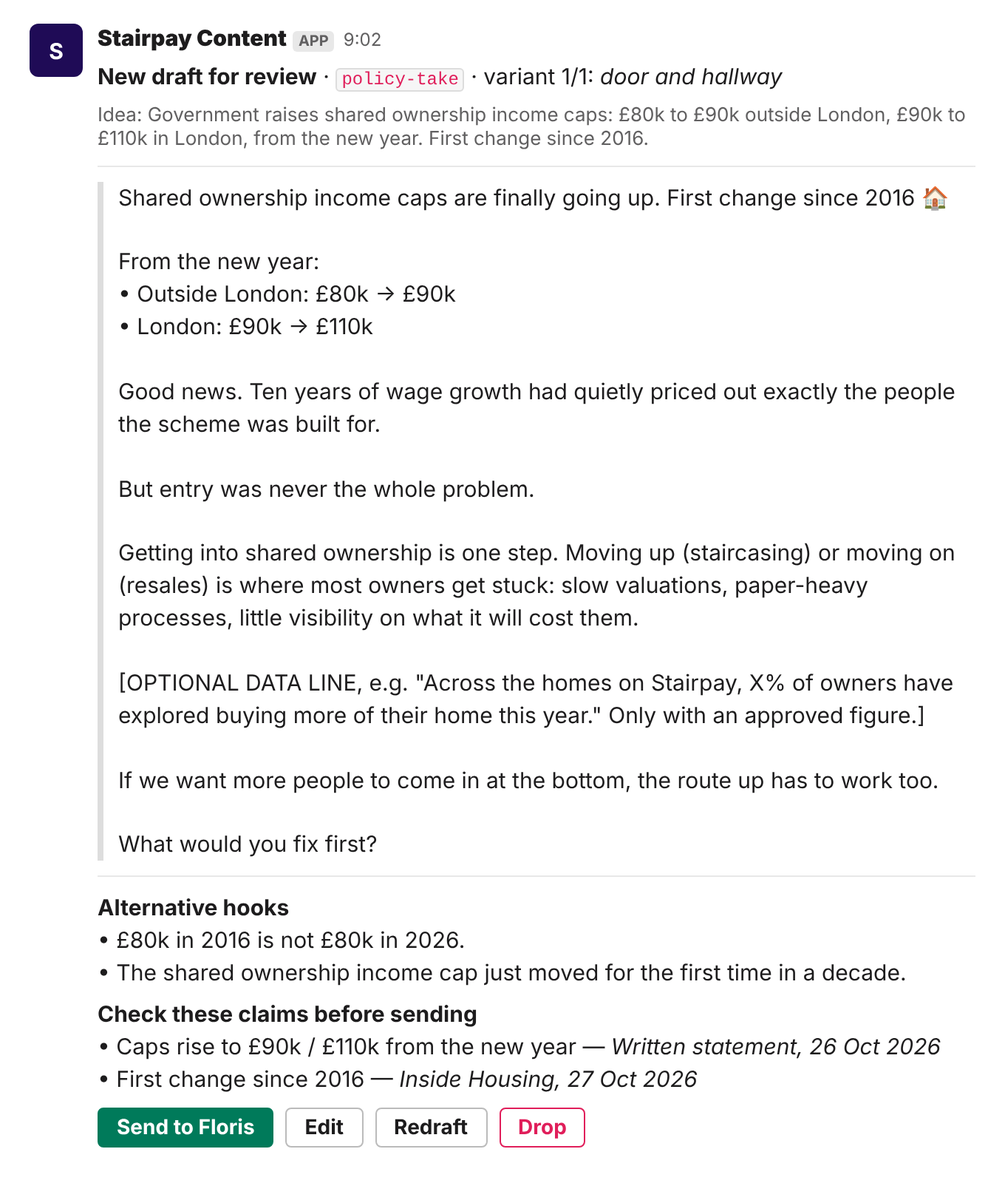
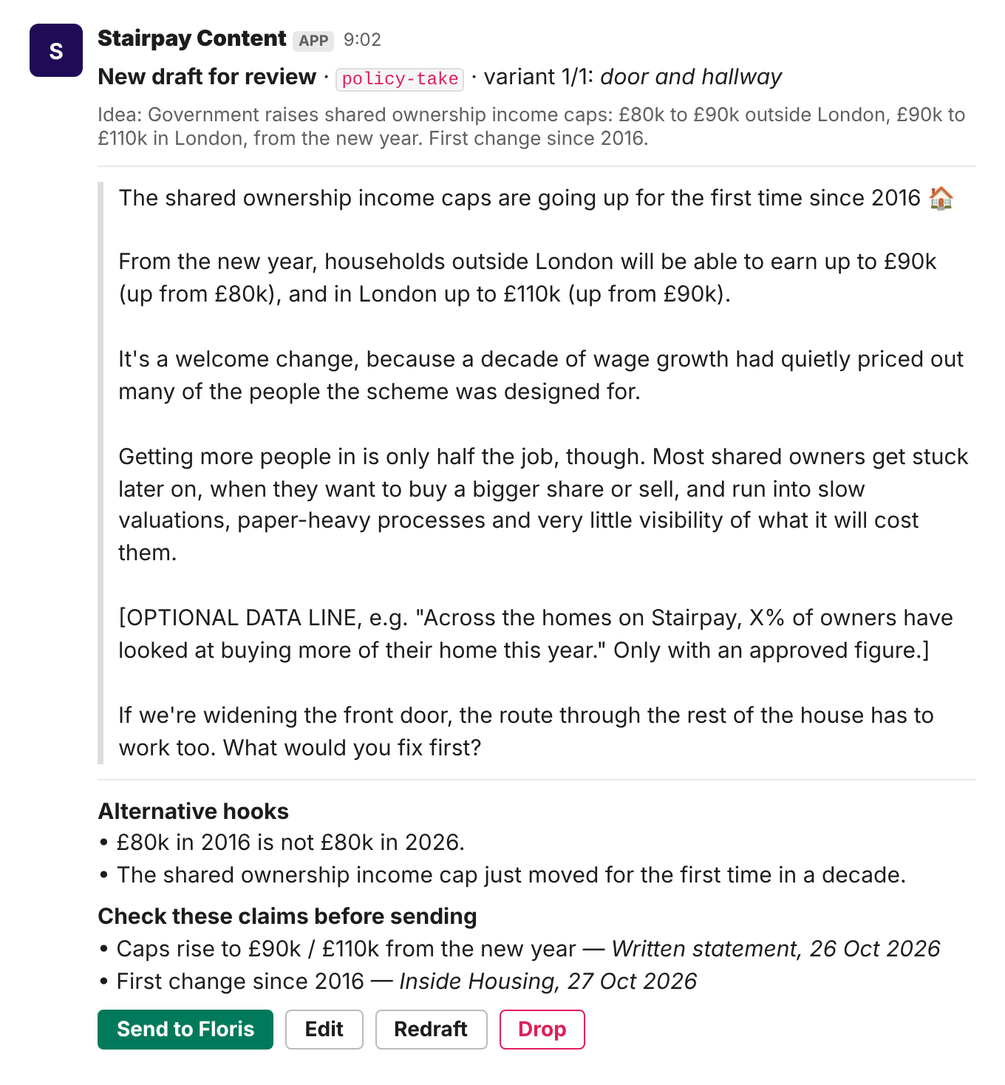
Income-caps draft rewritten to the natural-phrasing standard
Claude-Session: https://claude.ai/code/session_016KAkVYgtzY3TWTPk2NvPPF

diff --git a/mockups/slack/README.md b/mockups/slack/README.md
@@ -3,13 +3,11 @@
 Exact Block Kit payloads the bot sends (generated by `scripts/make_mockups.py` from the bot's own code).
 Open a link while signed in to Slack to see it rendered in Slack's Block Kit Builder (buttons are inert there).
 
-- [news alert](https://app.slack.com/block-kit-builder/#%7B%22blocks%22%3A%5B%7B%22type%22%3A%22section%22%2C%22text%22%3A%7B%22type%22%3A%22mrkdwn%22%2C%22text%22%3A%22%5Cu26a1%20%2ATimely%20post%20idea%2A%20%5Cu00b7%20score%209/10%5Cn%2AShared%20ownership%20income%20caps%20raised%2A%5Cn_Announced%2026%20Oct%3B%20sector%20reacting%20this%20week_%22%7D%7D%2C%7B%22type%22%3A%22context%22%2C%22elements%22%3A%5B%7B%22type%22%3A%22mrkdwn%22%2C%22text%22%3A%22%3Chttps%3A//www.insidehousing.co.uk/news/government-announces-increase-to-shared-ownership-income-caps-99295%7CSource%3E%20%5Cu00b7%20policy-take%20%5Cu00b7%20timely%203%2C%20data%202%2C%20fit%202%2C%20fresh%202%22%7D%5D%7D%2C%7B%22type%22%3A%22actions%22%2C%22elements%22%3A%5B%7B%22type%22%3A%22button%22%2C%22text%22%3A%7B%22type%22%3A%22plain_text%22%2C%22text%22%3A%22Draft%20now%20%28fast%20lane%29%22%2C%22emoji%22%3Atrue%7D%2C%22action_id%22%3A%22news_draft%22%2C%22value%22%3A%22idea_be49473e06%22%2C%22style%22%3A%22primary%22%7D%2C%7B%22type%22%3A%22button%22%2C%22text%22%3A%7B%22type%22%3A%22plain_text%22%2C%22text%22%3A%22Keep%20for%20Wednesday%22%2C%22emoji%22%3Atrue%7D%2C%22action_id%22%3A%22news_keep%22%2C%22value%22%3A%22idea_be49473e06%22%7D%2C%7B%22type%22%3A%22button%22%2C%22text%22%3A%7B%22type%22%3A%22plain_text%22%2C%22text%22%3A%22Drop%22%2C%22emoji%22%3Atrue%7D%2C%22action_id%22%3A%22news_drop%22%2C%22value%22%3A%22idea_be49473e06%22%7D%5D%7D%5D%7D) · `1_news_alert.json`
-- [board digest wednesday](https://app.slack.com/block-kit-builder/#%7B%22blocks%22%3A%5B%7B%22type%22%3A%22section%22%2C%22text%22%3A%7B%22type%22%3A%22mrkdwn%22%2C%22text%22%3A%22%2AIdeas%20board%20for%20the%20Wednesday%20review%2A%20%5Cu00b7%20posts%20for%202026-W45%5CnTick%20the%20ones%20to%20post%20next%20week%20%28aim%20for%204-5%29%2C%20then%20confirm.%22%7D%7D%2C%7B%22type%22%3A%22context%22%2C%22elements%22%3A%5B%7B%22type%22%3A%22mrkdwn%22%2C%22text%22%3A%22New%3A%204%20%5Cu00b7%20Picked%3A%201%20%5Cu00b7%20Drafting%3A%201%20%5Cu00b7%20Published%3A%201%22%7D%5D%7D%2C%7B%22type%22%3A%22divider%22%7D%2C%7B%22type%22%3A%22section%22%2C%22text%22%3A%7B%22type%22%3A%22mrkdwn%22%2C%22text%22%3A%22%2ALast%20week%27s%20results%2A%20%28best%20first%29%5Cn%5Cu2022%20%3Chttps%3A//www.linkedin.com/in/floris-ten-nijenhuis/recent-activity/%7CAny%20board%20game%20fans%20out%20here%3F%20%28EXAMPLE%20of%20a%20published%20row%29%3E%20%5Cu00b7%20%60story-bts%60%20%5Cud83c%5Cudfc6%5Cn%20%20%2030%20reactions%20%5Cu00b7%201%20comments%20%5Cu00b7%200%20reposts%22%7D%7D%2C%7B%22type%22%3A%22divider%22%7D%2C%7B%22type%22%3A%22section%22%2C%22block_id%22%3A%22pick_idea_b534c7b137%22%2C%22text%22%3A%7B%22type%22%3A%22mrkdwn%22%2C%22text%22%3A%22%2AEXAMPLE%3A%20How%20long%20staircasing%20really%20takes%2A%20%5Cu00b7%208/10%5Cn_Pairs%20with%20the%20income%20caps%20news_%5Cndata-post%20%5Cu00b7%20Stairpay%20data%22%7D%2C%22accessory%22%3A%7B%22type%22%3A%22checkboxes%22%2C%22action_id%22%3A%22board_tick%22%2C%22options%22%3A%5B%7B%22text%22%3A%7B%22type%22%3A%22mrkdwn%22%2C%22text%22%3A%22Pick%22%7D%2C%22value%22%3A%22idea_b534c7b137%22%7D%5D%7D%7D%2C%7B%22type%22%3A%22section%22%2C%22block_id%22%3A%22pick_idea_98a5e82ba2%22%2C%22text%22%3A%7B%22type%22%3A%22mrkdwn%22%2C%22text%22%3A%22%2AEXAMPLE%3A%20What%20providers%20get%20wrong%20about%20resales%2A%20%5Cu00b7%207/10%5Cn_Strong%20line%20from%20the%20weekly%20chat_%5Cnpolicy-take%20%5Cu00b7%20Floris%20meeting%22%7D%2C%22accessory%22%3A%7B%22type%22%3A%22checkboxes%22%2C%22action_id%22%3A%22board_tick%22%2C%22options%22%3A%5B%7B%22text%22%3A%7B%22type%22%3A%22mrkdwn%22%2C%22text%22%3A%22Pick%22%7D%2C%22value%22%3A%22idea_98a5e82ba2%22%7D%5D%7D%7D%2C%7B%22type%22%3A%22section%22%2C%22block_id%22%3A%22pick_idea_7a52a7d0ec%22%2C%22text%22%3A%7B%22type%22%3A%22mrkdwn%22%2C%22text%22%3A%22%2AShared%20Ownership%20Code%20adoption%20keeps%20growing%2A%20%5Cu00b7%206/10%5Cn_Another%20provider%20signed%20up%20last%20week_%5Cnpolicy-take%20%5Cu00b7%20News%20scan%20%5Cu00b7%20%3Chttps%3A//www.insidehousing.co.uk/news/specialist-older-peoples-housing-association-adopts-shared-ownership-code-99224%7Csource%3E%22%7D%2C%22accessory%22%3A%7B%22type%22%3A%22checkboxes%22%2C%22action_id%22%3A%22board_tick%22%2C%22options%22%3A%5B%7B%22text%22%3A%7B%22type%22%3A%22mrkdwn%22%2C%22text%22%3A%22Pick%22%7D%2C%22value%22%3A%22idea_7a52a7d0ec%22%7D%5D%7D%7D%2C%7B%22type%22%3A%22section%22%2C%22block_id%22%3A%22pick_idea_77e3c57b79%22%2C%22text%22%3A%7B%22type%22%3A%22mrkdwn%22%2C%22text%22%3A%22%2AUS%20investor%20brings%20%5Cu00a3100m%20to%20UK%20affordable%20housing%2A%20%5Cu00b7%205/10%5Cn_New%20capital%20entering%20the%20sector_%5Cnpolicy-take%20%5Cu00b7%20News%20scan%20%5Cu00b7%20%3Chttps%3A//news.google.com/rss/search%3Fq%3D%2522affordable%2Bhousing%2Binvestor%2522%2B%25C2%25A3100m%2BUK%7Csource%3E%22%7D%2C%22accessory%22%3A%7B%22type%22%3A%22checkboxes%22%2C%22action_id%22%3A%22board_tick%22%2C%22options%22%3A%5B%7B%22text%22%3A%7B%22type%22%3A%22mrkdwn%22%2C%22text%22%3A%22Pick%22%7D%2C%22value%22%3A%22idea_77e3c57b79%22%7D%5D%7D%7D%2C%7B%22type%22%3A%22divider%22%7D%2C%7B%22type%22%3A%22actions%22%2C%22elements%22%3A%5B%7B%22type%22%3A%22button%22%2C%22text%22%3A%7B%22type%22%3A%22plain_text%22%2C%22text%22%3A%22Confirm%20picks%22%2C%22emoji%22%3Atrue%7D%2C%22action_id%22%3A%22board_confirm%22%2C%22value%22%3A%222026-W45%22%2C%22style%22%3A%22primary%22%7D%5D%7D%5D%7D) · `2_board_digest_wednesday.json`
+- [news alert](https://app.slack.com/block-kit-builder/#%7B%22blocks%22%3A%5B%7B%22type%22%3A%22section%22%2C%22text%22%3A%7B%22type%22%3A%22mrkdwn%22%2C%22text%22%3A%22%5Cu26a1%20%2ATimely%20post%20idea%2A%20%5Cu00b7%20score%209/10%5Cn%2AShared%20ownership%20income%20caps%20raised%2A%5Cn_Announced%2026%20Oct%3B%20sector%20reacting%20this%20week_%22%7D%7D%2C%7B%22type%22%3A%22context%22%2C%22elements%22%3A%5B%7B%22type%22%3A%22mrkdwn%22%2C%22text%22%3A%22%3Chttps%3A//www.insidehousing.co.uk/news/government-announces-increase-to-shared-ownership-income-caps-99295%7CSource%3E%20%5Cu00b7%20policy-take%20%5Cu00b7%20timely%203%2C%20data%202%2C%20fit%202%2C%20fresh%202%22%7D%5D%7D%2C%7B%22type%22%3A%22actions%22%2C%22elements%22%3A%5B%7B%22type%22%3A%22button%22%2C%22text%22%3A%7B%22type%22%3A%22plain_text%22%2C%22text%22%3A%22Draft%20now%20%28fast%20lane%29%22%2C%22emoji%22%3Atrue%7D%2C%22action_id%22%3A%22news_draft%22%2C%22value%22%3A%22idea_8377c82d59%22%2C%22style%22%3A%22primary%22%7D%2C%7B%22type%22%3A%22button%22%2C%22text%22%3A%7B%22type%22%3A%22plain_text%22%2C%22text%22%3A%22Keep%20for%20Wednesday%22%2C%22emoji%22%3Atrue%7D%2C%22action_id%22%3A%22news_keep%22%2C%22value%22%3A%22idea_8377c82d59%22%7D%2C%7B%22type%22%3A%22button%22%2C%22text%22%3A%7B%22type%22%3A%22plain_text%22%2C%22text%22%3A%22Drop%22%2C%22emoji%22%3Atrue%7D%2C%22action_id%22%3A%22news_drop%22%2C%22value%22%3A%22idea_8377c82d59%22%7D%5D%7D%5D%7D) · `1_news_alert.json`
+- [board digest wednesday](https://app.slack.com/block-kit-builder/#%7B%22blocks%22%3A%5B%7B%22type%22%3A%22section%22%2C%22text%22%3A%7B%22type%22%3A%22mrkdwn%22%2C%22text%22%3A%22%2AIdeas%20board%20for%20the%20Wednesday%20review%2A%20%5Cu00b7%20posts%20for%202026-W45%5CnTick%20the%20ones%20to%20post%20next%20week%20%28aim%20for%204-5%29%2C%20then%20confirm.%22%7D%7D%2C%7B%22type%22%3A%22context%22%2C%22elements%22%3A%5B%7B%22type%22%3A%22mrkdwn%22%2C%22text%22%3A%22New%3A%204%20%5Cu00b7%20Picked%3A%201%20%5Cu00b7%20Drafting%3A%201%20%5Cu00b7%20Published%3A%201%22%7D%5D%7D%2C%7B%22type%22%3A%22divider%22%7D%2C%7B%22type%22%3A%22section%22%2C%22text%22%3A%7B%22type%22%3A%22mrkdwn%22%2C%22text%22%3A%22%2ALast%20week%27s%20results%2A%20%28best%20first%29%5Cn%5Cu2022%20%3Chttps%3A//www.linkedin.com/in/floris-ten-nijenhuis/recent-activity/%7CAny%20board%20game%20fans%20out%20here%3F%20%28EXAMPLE%20of%20a%20published%20row%29%3E%20%5Cu00b7%20%60story-bts%60%20%5Cud83c%5Cudfc6%5Cn%20%20%2030%20reactions%20%5Cu00b7%201%20comments%20%5Cu00b7%200%20reposts%22%7D%7D%2C%7B%22type%22%3A%22divider%22%7D%2C%7B%22type%22%3A%22section%22%2C%22block_id%22%3A%22pick_idea_4e717efeb4%22%2C%22text%22%3A%7B%22type%22%3A%22mrkdwn%22%2C%22text%22%3A%22%2AEXAMPLE%3A%20How%20long%20staircasing%20really%20takes%2A%20%5Cu00b7%208/10%5Cn_Pairs%20with%20the%20income%20caps%20news_%5Cndata-post%20%5Cu00b7%20Stairpay%20data%22%7D%2C%22accessory%22%3A%7B%22type%22%3A%22checkboxes%22%2C%22action_id%22%3A%22board_tick%22%2C%22options%22%3A%5B%7B%22text%22%3A%7B%22type%22%3A%22mrkdwn%22%2C%22text%22%3A%22Pick%22%7D%2C%22value%22%3A%22idea_4e717efeb4%22%7D%5D%7D%7D%2C%7B%22type%22%3A%22section%22%2C%22block_id%22%3A%22pick_idea_d8a128a1fc%22%2C%22text%22%3A%7B%22type%22%3A%22mrkdwn%22%2C%22text%22%3A%22%2AEXAMPLE%3A%20What%20providers%20get%20wrong%20about%20resales%2A%20%5Cu00b7%207/10%5Cn_Strong%20line%20from%20the%20weekly%20chat_%5Cnpolicy-take%20%5Cu00b7%20Floris%20meeting%22%7D%2C%22accessory%22%3A%7B%22type%22%3A%22checkboxes%22%2C%22action_id%22%3A%22board_tick%22%2C%22options%22%3A%5B%7B%22text%22%3A%7B%22type%22%3A%22mrkdwn%22%2C%22text%22%3A%22Pick%22%7D%2C%22value%22%3A%22idea_d8a128a1fc%22%7D%5D%7D%7D%2C%7B%22type%22%3A%22section%22%2C%22block_id%22%3A%22pick_idea_46621f8dcb%22%2C%22text%22%3A%7B%22type%22%3A%22mrkdwn%22%2C%22text%22%3A%22%2AShared%20Ownership%20Code%20adoption%20keeps%20growing%2A%20%5Cu00b7%206/10%5Cn_Another%20provider%20signed%20up%20last%20week_%5Cnpolicy-take%20%5Cu00b7%20News%20scan%20%5Cu00b7%20%3Chttps%3A//www.insidehousing.co.uk/news/specialist-older-peoples-housing-association-adopts-shared-ownership-code-99224%7Csource%3E%22%7D%2C%22accessory%22%3A%7B%22type%22%3A%22checkboxes%22%2C%22action_id%22%3A%22board_tick%22%2C%22options%22%3A%5B%7B%22text%22%3A%7B%22type%22%3A%22mrkdwn%22%2C%22text%22%3A%22Pick%22%7D%2C%22value%22%3A%22idea_46621f8dcb%22%7D%5D%7D%7D%2C%7B%22type%22%3A%22section%22%2C%22block_id%22%3A%22pick_idea_b8c9da9661%22%2C%22text%22%3A%7B%22type%22%3A%22mrkdwn%22%2C%22text%22%3A%22%2AUS%20investor%20brings%20%5Cu00a3100m%20to%20UK%20affordable%20housing%2A%20%5Cu00b7%205/10%5Cn_New%20capital%20entering%20the%20sector_%5Cnpolicy-take%20%5Cu00b7%20News%20scan%20%5Cu00b7%20%3Chttps%3A//news.google.com/rss/search%3Fq%3D%2522affordable%2Bhousing%2Binvestor%2522%2B%25C2%25A3100m%2BUK%7Csource%3E%22%7D%2C%22accessory%22%3A%7B%22type%22%3A%22checkboxes%22%2C%22action_id%22%3A%22board_tick%22%2C%22options%22%3A%5B%7B%22text%22%3A%7B%22type%22%3A%22mrkdwn%22%2C%22text%22%3A%22Pick%22%7D%2C%22value%22%3A%22idea_b8c9da9661%22%7D%5D%7D%7D%2C%7B%22type%22%3A%22divider%22%7D%2C%7B%22type%22%3A%22actions%22%2C%22elements%22%3A%5B%7B%22type%22%3A%22button%22%2C%22text%22%3A%7B%22type%22%3A%22plain_text%22%2C%22text%22%3A%22Confirm%20picks%22%2C%22emoji%22%3Atrue%7D%2C%22action_id%22%3A%22board_confirm%22%2C%22value%22%3A%222026-W45%22%2C%22style%22%3A%22primary%22%7D%5D%7D%5D%7D) · `2_board_digest_wednesday.json`
 - [picks confirmed](https://app.slack.com/block-kit-builder/#%7B%22blocks%22%3A%5B%7B%22type%22%3A%22section%22%2C%22text%22%3A%7B%22type%22%3A%22mrkdwn%22%2C%22text%22%3A%22%2APicked%20for%202026-W45%2A%20%5Cu2705%5Cn%5Cu2022%20EXAMPLE%3A%20Resales%20module%20launch%5Cn%5Cu2022%20EXAMPLE%3A%20What%20providers%20get%20wrong%20about%20resales%5Cn%5Cu2022%20EXAMPLE%3A%20How%20long%20staircasing%20really%20takes%5Cn%5Cu2022%20Shared%20Ownership%20Code%20adoption%20keeps%20growing%22%7D%7D%2C%7B%22type%22%3A%22actions%22%2C%22elements%22%3A%5B%7B%22type%22%3A%22button%22%2C%22text%22%3A%7B%22type%22%3A%22plain_text%22%2C%22text%22%3A%22Draft%20all%20picked%20now%22%2C%22emoji%22%3Atrue%7D%2C%22action_id%22%3A%22board_draft_picked%22%2C%22value%22%3A%222026-W45%22%2C%22style%22%3A%22primary%22%7D%5D%7D%5D%7D) · `3_picks_confirmed.json`
-- [owner review card](https://app.slack.com/block-kit-builder/#%7B%22blocks%22%3A%5B%7B%22type%22%3A%22section%22%2C%22text%22%3A%7B%22type%22%3A%22mrkdwn%22%2C%22text%22%3A%22%2ANew%20draft%20for%20review%2A%20%5Cu00b7%20%60policy-take%60%20%5Cu00b7%20variant%201/1%3A%20_door%20and%20hallway_%22%7D%7D%2C%7B%22type%22%3A%22context%22%2C%22elements%22%3A%5B%7B%22type%22%3A%22mrkdwn%22%2C%22text%22%3A%22Idea%3A%20Government%20raises%20shared%20ownership%20income%20caps%3A%20%5Cu00a380k%20to%20%5Cu00a390k%20outside%20London%2C%20%5Cu00a390k%20to%20%5Cu00a3110k%20in%20London%2C%20from%20the%20new%20year.%20First%20change%20since%202016.%22%7D%5D%7D%2C%7B%22type%22%3A%22divider%22%7D%2C%7B%22type%22%3A%22section%22%2C%22text%22%3A%7B%22type%22%3A%22mrkdwn%22%2C%22text%22%3A%22%3E%20Shared%20ownership%20income%20caps%20are%20finally%20going%20up.%20First%20change%20since%202016%20%5Cud83c%5Cudfe0%5Cn%3E%5Cn%3E%20From%20the%20new%20year%3A%5Cn%3E%20%5Cu2022%20Outside%20London%3A%20%5Cu00a380k%20%5Cu2192%20%5Cu00a390k%5Cn%3E%20%5Cu2022%20London%3A%20%5Cu00a390k%20%5Cu2192%20%5Cu00a3110k%5Cn%3E%5Cn%3E%20Good%20news.%20Ten%20years%20of%20wage%20growth%20had%20quietly%20priced%20out%20exactly%20the%20people%20the%20scheme%20was%20built%20for.%5Cn%3E%5Cn%3E%20But%20entry%20was%20never%20the%20whole%20problem.%5Cn%3E%5Cn%3E%20Getting%20into%20shared%20ownership%20is%20one%20step.%20Moving%20up%20%28staircasing%29%20or%20moving%20on%20%28resales%29%20is%20where%20most%20owners%20get%20stuck%3A%20slow%20valuations%2C%20paper-heavy%20processes%2C%20little%20visibility%20on%20what%20it%20will%20cost%20them.%5Cn%3E%5Cn%3E%20%5BOPTIONAL%20DATA%20LINE%2C%20e.g.%20%5C%22Across%20the%20homes%20on%20Stairpay%2C%20X%25%20of%20owners%20have%20explored%20buying%20more%20of%20their%20home%20this%20year.%5C%22%20Only%20with%20an%20approved%20figure.%5D%5Cn%3E%5Cn%3E%20If%20we%20want%20more%20people%20to%20come%20in%20at%20the%20bottom%2C%20the%20route%20up%20has%20to%20work%20too.%5Cn%3E%5Cn%3E%20What%20would%20you%20fix%20first%3F%22%7D%7D%2C%7B%22type%22%3A%22divider%22%7D%2C%7B%22type%22%3A%22section%22%2C%22text%22%3A%7B%22type%22%3A%22mrkdwn%22%2C%22text%22%3A%22%2AAlternative%20hooks%2A%5Cn%5Cu2022%20%5Cu00a380k%20in%202016%20is%20not%20%5Cu00a380k%20in%202026.%5Cn%5Cu2022%20The%20shared%20ownership%20income%20cap%20just%20moved%20for%20the%20first%20time%20in%20a%20decade.%22%7D%7D%2C%7B%22type%22%3A%22section%22%2C%22text%22%3A%7B%22type%22%3A%22mrkdwn%22%2C%22text%22%3A%22%2ACheck%20these%20claims%20before%20sending%2A%5Cn%5Cu2022%20Caps%20rise%20to%20%5Cu00a390k%20/%20%5Cu00a3110k%20from%20the%20new%20year%20%5Cu2014%20_Written%20statement%2C%2026%20Oct%202026_%5Cn%5Cu2022%20First%20change%20since%202016%20%5Cu2014%20_Inside%20Housing%2C%2027%20Oct%202026_%22%7D%7D%2C%7B%22type%22%3A%22actions%22%2C%22elements%22%3A%5B%7B%22type%22%3A%22button%22%2C%22text%22%3A%7B%22type%22%3A%22plain_text%22%2C%22text%22%3A%22Send%20to%20Floris%22%2C%22emoji%22%3Atrue%7D%2C%22action_id%22%3A%22review_send%22%2C%22value%22%3A%22post_06fe4d48ba%22%2C%22style%22%3A%22primary%22%7D%2C%7B%22type%22%3A%22button%22%2C%22text%22%3A%7B%22type%22%3A%22plain_text%22%2C%22text%22%3A%22Edit%22%2C%22emoji%22%3Atrue%7D%2C%22action_id%22%3A%22review_edit%22%2C%22value%22%3A%22post_06fe4d48ba%22%7D%2C%7B%22type%22%3A%22button%22%2C%22text%22%3A%7B%22type%22%3A%22plain_text%22%2C%22text%22%3A%22Redraft%22%2C%22emoji%22%3Atrue%7D%2C%22action_id%22%3A%22review_regen%22%2C%22value%22%3A%22post_06fe4d48ba%22%7D%2C%7B%22type%22%3A%22button%22%2C%22text%22%3A%7B%22type%22%3A%22plain_text%22%2C%22text%22%3A%22Drop%22%2C%22emoji%22%3Atrue%7D%2C%22action_id%22%3A%22review_reject%22%2C%22value%22%3A%22post_06fe4d48ba%22%2C%22style%22%3A%22danger%22%7D%5D%7D%5D%7D) · `4_owner_review_card.json`
-- [floris approval dm](https://app.slack.com/block-kit-builder/#%7B%22blocks%22%3A%5B%7B%22type%22%3A%22section%22%2C%22text%22%3A%7B%22type%22%3A%22mrkdwn%22%2C%22text%22%3A%22%2ADraft%20ready%20for%20your%20approval%2A%20%5Cu00b7%20%60policy-take%60%5CnPlease%20approve%2C%20edit%20or%20reject%20within%2024h.%22%7D%7D%2C%7B%22type%22%3A%22divider%22%7D%2C%7B%22type%22%3A%22section%22%2C%22text%22%3A%7B%22type%22%3A%22mrkdwn%22%2C%22text%22%3A%22%3E%20Shared%20ownership%20income%20caps%20are%20finally%20going%20up.%20First%20change%20since%202016%20%5Cud83c%5Cudfe0%5Cn%3E%5Cn%3E%20From%20the%20new%20year%3A%5Cn%3E%20%5Cu2022%20Outside%20London%3A%20%5Cu00a380k%20%5Cu2192%20%5Cu00a390k%5Cn%3E%20%5Cu2022%20London%3A%20%5Cu00a390k%20%5Cu2192%20%5Cu00a3110k%5Cn%3E%5Cn%3E%20Good%20news.%20Ten%20years%20of%20wage%20growth%20had%20quietly%20priced%20out%20exactly%20the%20people%20the%20scheme%20was%20built%20for.%5Cn%3E%5Cn%3E%20But%20entry%20was%20never%20the%20whole%20problem.%5Cn%3E%5Cn%3E%20Getting%20into%20shared%20ownership%20is%20one%20step.%20Moving%20up%20%28staircasing%29%20or%20moving%20on%20%28resales%29%20is%20where%20most%20owners%20get%20stuck%3A%20slow%20valuations%2C%20paper-heavy%20processes%2C%20little%20visibility%20on%20what%20it%20will%20cost%20them.%5Cn%3E%5Cn%3E%20%5BOPTIONAL%20DATA%20LINE%2C%20e.g.%20%5C%22Across%20the%20homes%20on%20Stairpay%2C%20X%25%20of%20owners%20have%20explored%20buying%20more%20of%20their%20home%20this%20year.%5C%22%20Only%20with%20an%20approved%20figure.%5D%5Cn%3E%5Cn%3E%20If%20we%20want%20more%20people%20to%20come%20in%20at%20the%20bottom%2C%20the%20route%20up%20has%20to%20work%20too.%5Cn%3E%5Cn%3E%20What%20would%20you%20fix%20first%3F%22%7D%7D%2C%7B%22type%22%3A%22divider%22%7D%2C%7B%22type%22%3A%22actions%22%2C%22elements%22%3A%5B%7B%22type%22%3A%22button%22%2C%22text%22%3A%7B%22type%22%3A%22plain_text%22%2C%22text%22%3A%22Approve%22%2C%22emoji%22%3Atrue%7D%2C%22action_id%22%3A%22floris_approve%22%2C%22value%22%3A%22post_06fe4d48ba%22%2C%22style%22%3A%22primary%22%7D%2C%7B%22type%22%3A%22button%22%2C%22text%22%3A%7B%22type%22%3A%22plain_text%22%2C%22text%22%3A%22Edit%22%2C%22emoji%22%3Atrue%7D%2C%22action_id%22%3A%22floris_edit%22%2C%22value%22%3A%22post_06fe4d48ba%22%7D%2C%7B%22type%22%3A%22button%22%2C%22text%22%3A%7B%22type%22%3A%22plain_text%22%2C%22text%22%3A%22Reject%22%2C%22emoji%22%3Atrue%7D%2C%22action_id%22%3A%22floris_reject%22%2C%22value%22%3A%22post_06fe4d48ba%22%2C%22style%22%3A%22danger%22%7D%5D%7D%5D%7D) · `5_floris_approval_dm.json`
-- [team task dm](https://app.slack.com/block-kit-builder/#%7B%22blocks%22%3A%5B%7B%22type%22%3A%22section%22%2C%22text%22%3A%7B%22type%22%3A%22mrkdwn%22%2C%22text%22%3A%22%2AComment%20on%20Floris%27s%20new%20post%2A%20by%2010%3A15%5Cn%3Chttps%3A//www.linkedin.com/posts/example%7COpen%20the%20post%3E%5Cn_Add%20a%20provider-side%20angle_%22%7D%7D%2C%7B%22type%22%3A%22section%22%2C%22text%22%3A%7B%22type%22%3A%22mrkdwn%22%2C%22text%22%3A%22%2ASuggested%20text%2A%20%28edit%20so%20it%20sounds%20like%20you%29%3A%5Cn%3E%20Wider%20eligibility%20is%20welcome.%20The%20next%20bottleneck%20for%20providers%20is%20moving%20people%20up%20the%20ladder%2C%20not%20just%20onto%20it.%22%7D%7D%2C%7B%22type%22%3A%22context%22%2C%22elements%22%3A%5B%7B%22type%22%3A%22mrkdwn%22%2C%22text%22%3A%22LinkedIn%20doesn%27t%20let%20tools%20post%20for%20you%2C%20so%20copy%2C%20tweak%2C%20post.%20~30%20seconds.%22%7D%5D%7D%2C%7B%22type%22%3A%22actions%22%2C%22elements%22%3A%5B%7B%22type%22%3A%22button%22%2C%22text%22%3A%7B%22type%22%3A%22plain_text%22%2C%22text%22%3A%22Done%22%2C%22emoji%22%3Atrue%7D%2C%22action_id%22%3A%22task_done%22%2C%22value%22%3A%22task_08a4676849%22%2C%22style%22%3A%22primary%22%7D%2C%7B%22type%22%3A%22button%22%2C%22text%22%3A%7B%22type%22%3A%22plain_text%22%2C%22text%22%3A%22Skip%22%2C%22emoji%22%3Atrue%7D%2C%22action_id%22%3A%22task_skip%22%2C%22value%22%3A%22task_08a4676849%22%7D%5D%7D%5D%7D) · `6_team_task_dm.json`
-- [floris comment list](https://app.slack.com/block-kit-builder/#%7B%22blocks%22%3A%5B%7B%22type%22%3A%22section%22%2C%22text%22%3A%7B%22type%22%3A%22mrkdwn%22%2C%22text%22%3A%22%2A2%20posts%20worth%20a%20comment%20today%2A%5CnCopy%2C%20tweak%2C%20post.%20Tap%20%5Cu2705%20when%20done%20so%20we%20can%20track%20it.%22%7D%7D%2C%7B%22type%22%3A%22divider%22%7D%2C%7B%22type%22%3A%22section%22%2C%22text%22%3A%7B%22type%22%3A%22mrkdwn%22%2C%22text%22%3A%22%2A1.%20EXAMPLE%3A%20Head%20of%20home%20ownership%2C%20large%20HA%2A%20%5Cu00b7%20%3Chttps%3A//www.linkedin.com/posts/example-1%7Copen%20post%3E%5Cn_Tier%20A%20provider%20voice%20on%20the%20income%20caps_%5Cn%5Cn%3E%20Agree%20the%20caps%20were%20overdue.%20What%20we%20see%20next%20is%20a%20staircasing%20bottleneck%3A%20entry%20is%20easier%2C%20moving%20up%20still%20takes%20months.%22%7D%7D%2C%7B%22type%22%3A%22actions%22%2C%22elements%22%3A%5B%7B%22type%22%3A%22button%22%2C%22text%22%3A%7B%22type%22%3A%22plain_text%22%2C%22text%22%3A%22%5Cu2705%20Commented%22%2C%22emoji%22%3Atrue%7D%2C%22action_id%22%3A%22comment_posted%22%2C%22value%22%3A%22cmt_aaf9d0d0d5%22%2C%22style%22%3A%22primary%22%7D%2C%7B%22type%22%3A%22button%22%2C%22text%22%3A%7B%22type%22%3A%22plain_text%22%2C%22text%22%3A%22Skip%22%2C%22emoji%22%3Atrue%7D%2C%22action_id%22%3A%22comment_skip%22%2C%22value%22%3A%22cmt_aaf9d0d0d5%22%7D%5D%7D%2C%7B%22type%22%3A%22section%22%2C%22text%22%3A%7B%22type%22%3A%22mrkdwn%22%2C%22text%22%3A%22%2A2.%20EXAMPLE%3A%20Shared%20Ownership%20Council%2A%20%5Cu00b7%20%3Chttps%3A//www.linkedin.com/posts/example-2%7Copen%20post%3E%5Cn_Code%20adoption%20update%3B%20Floris%20can%20add%20the%20resident-experience%20angle_%5Cn%5Cn%3E%20Good%20to%20see%20adoption%20growing.%20The%20Code%20works%20best%20when%20providers%20can%20actually%20show%20residents%20their%20costs%20and%20options%20in%20one%20place.%22%7D%7D%2C%7B%22type%22%3A%22actions%22%2C%22elements%22%3A%5B%7B%22type%22%3A%22button%22%2C%22text%22%3A%7B%22type%22%3A%22plain_text%22%2C%22text%22%3A%22%5Cu2705%20Commented%22%2C%22emoji%22%3Atrue%7D%2C%22action_id%22%3A%22comment_posted%22%2C%22value%22%3A%22cmt_44a52b1d3e%22%2C%22style%22%3A%22primary%22%7D%2C%7B%22type%22%3A%22button%22%2C%22text%22%3A%7B%22type%22%3A%22plain_text%22%2C%22text%22%3A%22Skip%22%2C%22emoji%22%3Atrue%7D%2C%22action_id%22%3A%22comment_skip%22%2C%22value%22%3A%22cmt_44a52b1d3e%22%7D%5D%7D%5D%7D) · `7_floris_comment_list.json`
-- [metrics request](https://app.slack.com/block-kit-builder/#%7B%22blocks%22%3A%5B%7B%22type%22%3A%22section%22%2C%22text%22%3A%7B%22type%22%3A%22mrkdwn%22%2C%22text%22%3A%22%2ANumbers%20to%20log%2A%20%281%29%5CnOpen%20each%20post%2C%20then%20tap%20the%20button%20and%20type%20what%20you%20see.%20~30%20seconds%20each.%22%7D%7D%2C%7B%22type%22%3A%22section%22%2C%22text%22%3A%7B%22type%22%3A%22mrkdwn%22%2C%22text%22%3A%22%2A24h%2A%20%5Cu00b7%20%3Chttps%3A//www.linkedin.com/in/floris-ten-nijenhuis/recent-activity/%7CAny%20board%20game%20fans%20out%20here%3F%20%28EXAMPLE%20of%20a%20published%20row%29%3E%22%7D%7D%2C%7B%22type%22%3A%22actions%22%2C%22elements%22%3A%5B%7B%22type%22%3A%22button%22%2C%22text%22%3A%7B%22type%22%3A%22plain_text%22%2C%22text%22%3A%22Log%2024h%20numbers%22%2C%22emoji%22%3Atrue%7D%2C%22action_id%22%3A%22metrics_log%22%2C%22value%22%3A%22post_4cc180b183%7C24h%22%2C%22style%22%3A%22primary%22%7D%5D%7D%5D%7D) · `8_metrics_request.json`
-### Metrics request
-![](8_metrics_request.png)
+- [owner review card](https://app.slack.com/block-kit-builder/#%7B%22blocks%22%3A%5B%7B%22type%22%3A%22section%22%2C%22text%22%3A%7B%22type%22%3A%22mrkdwn%22%2C%22text%22%3A%22%2ANew%20draft%20for%20review%2A%20%5Cu00b7%20%60policy-take%60%20%5Cu00b7%20variant%201/1%3A%20_door%20and%20hallway_%22%7D%7D%2C%7B%22type%22%3A%22context%22%2C%22elements%22%3A%5B%7B%22type%22%3A%22mrkdwn%22%2C%22text%22%3A%22Idea%3A%20Government%20raises%20shared%20ownership%20income%20caps%3A%20%5Cu00a380k%20to%20%5Cu00a390k%20outside%20London%2C%20%5Cu00a390k%20to%20%5Cu00a3110k%20in%20London%2C%20from%20the%20new%20year.%20First%20change%20since%202016.%22%7D%5D%7D%2C%7B%22type%22%3A%22divider%22%7D%2C%7B%22type%22%3A%22section%22%2C%22text%22%3A%7B%22type%22%3A%22mrkdwn%22%2C%22text%22%3A%22%3E%20The%20shared%20ownership%20income%20caps%20are%20going%20up%20for%20the%20first%20time%20since%202016%20%5Cud83c%5Cudfe0%5Cn%3E%5Cn%3E%20From%20the%20new%20year%2C%20households%20outside%20London%20will%20be%20able%20to%20earn%20up%20to%20%5Cu00a390k%20%28up%20from%20%5Cu00a380k%29%2C%20and%20in%20London%20up%20to%20%5Cu00a3110k%20%28up%20from%20%5Cu00a390k%29.%5Cn%3E%5Cn%3E%20It%27s%20a%20welcome%20change%2C%20because%20a%20decade%20of%20wage%20growth%20had%20quietly%20priced%20out%20many%20of%20the%20people%20the%20scheme%20was%20designed%20for.%5Cn%3E%5Cn%3E%20Getting%20more%20people%20in%20is%20only%20half%20the%20job%2C%20though.%20Most%20shared%20owners%20get%20stuck%20later%20on%2C%20when%20they%20want%20to%20buy%20a%20bigger%20share%20or%20sell%2C%20and%20run%20into%20slow%20valuations%2C%20paper-heavy%20processes%20and%20very%20little%20visibility%20of%20what%20it%20will%20cost%20them.%5Cn%3E%5Cn%3E%20%5BOPTIONAL%20DATA%20LINE%2C%20e.g.%20%5C%22Across%20the%20homes%20on%20Stairpay%2C%20X%25%20of%20owners%20have%20looked%20at%20buying%20more%20of%20their%20home%20this%20year.%5C%22%20Only%20with%20an%20approved%20figure.%5D%5Cn%3E%5Cn%3E%20If%20we%27re%20widening%20the%20front%20door%2C%20the%20route%20through%20the%20rest%20of%20the%20house%20has%20to%20work%20too.%20What%20would%20you%20fix%20first%3F%22%7D%7D%2C%7B%22type%22%3A%22divider%22%7D%2C%7B%22type%22%3A%22section%22%2C%22text%22%3A%7B%22type%22%3A%22mrkdwn%22%2C%22text%22%3A%22%2AAlternative%20hooks%2A%5Cn%5Cu2022%20%5Cu00a380k%20in%202016%20is%20not%20%5Cu00a380k%20in%202026.%5Cn%5Cu2022%20The%20shared%20ownership%20income%20cap%20just%20moved%20for%20the%20first%20time%20in%20a%20decade.%22%7D%7D%2C%7B%22type%22%3A%22section%22%2C%22text%22%3A%7B%22type%22%3A%22mrkdwn%22%2C%22text%22%3A%22%2ACheck%20these%20claims%20before%20sending%2A%5Cn%5Cu2022%20Caps%20rise%20to%20%5Cu00a390k%20/%20%5Cu00a3110k%20from%20the%20new%20year%20%5Cu2014%20_Written%20statement%2C%2026%20Oct%202026_%5Cn%5Cu2022%20First%20change%20since%202016%20%5Cu2014%20_Inside%20Housing%2C%2027%20Oct%202026_%22%7D%7D%2C%7B%22type%22%3A%22actions%22%2C%22elements%22%3A%5B%7B%22type%22%3A%22button%22%2C%22text%22%3A%7B%22type%22%3A%22plain_text%22%2C%22text%22%3A%22Send%20to%20Floris%22%2C%22emoji%22%3Atrue%7D%2C%22action_id%22%3A%22review_send%22%2C%22value%22%3A%22post_dc737585d6%22%2C%22style%22%3A%22primary%22%7D%2C%7B%22type%22%3A%22button%22%2C%22text%22%3A%7B%22type%22%3A%22plain_text%22%2C%22text%22%3A%22Edit%22%2C%22emoji%22%3Atrue%7D%2C%22action_id%22%3A%22review_edit%22%2C%22value%22%3A%22post_dc737585d6%22%7D%2C%7B%22type%22%3A%22button%22%2C%22text%22%3A%7B%22type%22%3A%22plain_text%22%2C%22text%22%3A%22Redraft%22%2C%22emoji%22%3Atrue%7D%2C%22action_id%22%3A%22review_regen%22%2C%22value%22%3A%22post_dc737585d6%22%7D%2C%7B%22type%22%3A%22button%22%2C%22text%22%3A%7B%22type%22%3A%22plain_text%22%2C%22text%22%3A%22Drop%22%2C%22emoji%22%3Atrue%7D%2C%22action_id%22%3A%22review_reject%22%2C%22value%22%3A%22post_dc737585d6%22%2C%22style%22%3A%22danger%22%7D%5D%7D%5D%7D) · `4_owner_review_card.json`
+- [floris approval dm](https://app.slack.com/block-kit-builder/#%7B%22blocks%22%3A%5B%7B%22type%22%3A%22section%22%2C%22text%22%3A%7B%22type%22%3A%22mrkdwn%22%2C%22text%22%3A%22%2ADraft%20ready%20for%20your%20approval%2A%20%5Cu00b7%20%60policy-take%60%5CnPlease%20approve%2C%20edit%20or%20reject%20within%2024h.%22%7D%7D%2C%7B%22type%22%3A%22divider%22%7D%2C%7B%22type%22%3A%22section%22%2C%22text%22%3A%7B%22type%22%3A%22mrkdwn%22%2C%22text%22%3A%22%3E%20The%20shared%20ownership%20income%20caps%20are%20going%20up%20for%20the%20first%20time%20since%202016%20%5Cud83c%5Cudfe0%5Cn%3E%5Cn%3E%20From%20the%20new%20year%2C%20households%20outside%20London%20will%20be%20able%20to%20earn%20up%20to%20%5Cu00a390k%20%28up%20from%20%5Cu00a380k%29%2C%20and%20in%20London%20up%20to%20%5Cu00a3110k%20%28up%20from%20%5Cu00a390k%29.%5Cn%3E%5Cn%3E%20It%27s%20a%20welcome%20change%2C%20because%20a%20decade%20of%20wage%20growth%20had%20quietly%20priced%20out%20many%20of%20the%20people%20the%20scheme%20was%20designed%20for.%5Cn%3E%5Cn%3E%20Getting%20more%20people%20in%20is%20only%20half%20the%20job%2C%20though.%20Most%20shared%20owners%20get%20stuck%20later%20on%2C%20when%20they%20want%20to%20buy%20a%20bigger%20share%20or%20sell%2C%20and%20run%20into%20slow%20valuations%2C%20paper-heavy%20processes%20and%20very%20little%20visibility%20of%20what%20it%20will%20cost%20them.%5Cn%3E%5Cn%3E%20%5BOPTIONAL%20DATA%20LINE%2C%20e.g.%20%5C%22Across%20the%20homes%20on%20Stairpay%2C%20X%25%20of%20owners%20have%20looked%20at%20buying%20more%20of%20their%20home%20this%20year.%5C%22%20Only%20with%20an%20approved%20figure.%5D%5Cn%3E%5Cn%3E%20If%20we%27re%20widening%20the%20front%20door%2C%20the%20route%20through%20the%20rest%20of%20the%20house%20has%20to%20work%20too.%20What%20would%20you%20fix%20first%3F%22%7D%7D%2C%7B%22type%22%3A%22divider%22%7D%2C%7B%22type%22%3A%22actions%22%2C%22elements%22%3A%5B%7B%22type%22%3A%22button%22%2C%22text%22%3A%7B%22type%22%3A%22plain_text%22%2C%22text%22%3A%22Approve%22%2C%22emoji%22%3Atrue%7D%2C%22action_id%22%3A%22floris_approve%22%2C%22value%22%3A%22post_dc737585d6%22%2C%22style%22%3A%22primary%22%7D%2C%7B%22type%22%3A%22button%22%2C%22text%22%3A%7B%22type%22%3A%22plain_text%22%2C%22text%22%3A%22Edit%22%2C%22emoji%22%3Atrue%7D%2C%22action_id%22%3A%22floris_edit%22%2C%22value%22%3A%22post_dc737585d6%22%7D%2C%7B%22type%22%3A%22button%22%2C%22text%22%3A%7B%22type%22%3A%22plain_text%22%2C%22text%22%3A%22Reject%22%2C%22emoji%22%3Atrue%7D%2C%22action_id%22%3A%22floris_reject%22%2C%22value%22%3A%22post_dc737585d6%22%2C%22style%22%3A%22danger%22%7D%5D%7D%5D%7D) · `5_floris_approval_dm.json`
+- [team task dm](https://app.slack.com/block-kit-builder/#%7B%22blocks%22%3A%5B%7B%22type%22%3A%22section%22%2C%22text%22%3A%7B%22type%22%3A%22mrkdwn%22%2C%22text%22%3A%22%2AComment%20on%20Floris%27s%20new%20post%2A%20by%2010%3A15%5Cn%3Chttps%3A//www.linkedin.com/posts/example%7COpen%20the%20post%3E%5Cn_Add%20a%20provider-side%20angle_%22%7D%7D%2C%7B%22type%22%3A%22section%22%2C%22text%22%3A%7B%22type%22%3A%22mrkdwn%22%2C%22text%22%3A%22%2ASuggested%20text%2A%20%28edit%20so%20it%20sounds%20like%20you%29%3A%5Cn%3E%20Wider%20eligibility%20is%20welcome.%20The%20next%20bottleneck%20for%20providers%20is%20moving%20people%20up%20the%20ladder%2C%20not%20just%20onto%20it.%22%7D%7D%2C%7B%22type%22%3A%22context%22%2C%22elements%22%3A%5B%7B%22type%22%3A%22mrkdwn%22%2C%22text%22%3A%22LinkedIn%20doesn%27t%20let%20tools%20post%20for%20you%2C%20so%20copy%2C%20tweak%2C%20post.%20~30%20seconds.%22%7D%5D%7D%2C%7B%22type%22%3A%22actions%22%2C%22elements%22%3A%5B%7B%22type%22%3A%22button%22%2C%22text%22%3A%7B%22type%22%3A%22plain_text%22%2C%22text%22%3A%22Done%22%2C%22emoji%22%3Atrue%7D%2C%22action_id%22%3A%22task_done%22%2C%22value%22%3A%22task_93bbafdc4a%22%2C%22style%22%3A%22primary%22%7D%2C%7B%22type%22%3A%22button%22%2C%22text%22%3A%7B%22type%22%3A%22plain_text%22%2C%22text%22%3A%22Skip%22%2C%22emoji%22%3Atrue%7D%2C%22action_id%22%3A%22task_skip%22%2C%22value%22%3A%22task_93bbafdc4a%22%7D%5D%7D%5D%7D) · `6_team_task_dm.json`
+- [floris comment list](https://app.slack.com/block-kit-builder/#%7B%22blocks%22%3A%5B%7B%22type%22%3A%22section%22%2C%22text%22%3A%7B%22type%22%3A%22mrkdwn%22%2C%22text%22%3A%22%2A2%20posts%20worth%20a%20comment%20today%2A%5CnCopy%2C%20tweak%2C%20post.%20Tap%20%5Cu2705%20when%20done%20so%20we%20can%20track%20it.%22%7D%7D%2C%7B%22type%22%3A%22divider%22%7D%2C%7B%22type%22%3A%22section%22%2C%22text%22%3A%7B%22type%22%3A%22mrkdwn%22%2C%22text%22%3A%22%2A1.%20EXAMPLE%3A%20Head%20of%20home%20ownership%2C%20large%20HA%2A%20%5Cu00b7%20%3Chttps%3A//www.linkedin.com/posts/example-1%7Copen%20post%3E%5Cn_Tier%20A%20provider%20voice%20on%20the%20income%20caps_%5Cn%5Cn%3E%20Agree%20the%20caps%20were%20overdue.%20What%20we%20see%20next%20is%20a%20staircasing%20bottleneck%3A%20entry%20is%20easier%2C%20moving%20up%20still%20takes%20months.%22%7D%7D%2C%7B%22type%22%3A%22actions%22%2C%22elements%22%3A%5B%7B%22type%22%3A%22button%22%2C%22text%22%3A%7B%22type%22%3A%22plain_text%22%2C%22text%22%3A%22%5Cu2705%20Commented%22%2C%22emoji%22%3Atrue%7D%2C%22action_id%22%3A%22comment_posted%22%2C%22value%22%3A%22cmt_ee33bf4a19%22%2C%22style%22%3A%22primary%22%7D%2C%7B%22type%22%3A%22button%22%2C%22text%22%3A%7B%22type%22%3A%22plain_text%22%2C%22text%22%3A%22Skip%22%2C%22emoji%22%3Atrue%7D%2C%22action_id%22%3A%22comment_skip%22%2C%22value%22%3A%22cmt_ee33bf4a19%22%7D%5D%7D%2C%7B%22type%22%3A%22section%22%2C%22text%22%3A%7B%22type%22%3A%22mrkdwn%22%2C%22text%22%3A%22%2A2.%20EXAMPLE%3A%20Shared%20Ownership%20Council%2A%20%5Cu00b7%20%3Chttps%3A//www.linkedin.com/posts/example-2%7Copen%20post%3E%5Cn_Code%20adoption%20update%3B%20Floris%20can%20add%20the%20resident-experience%20angle_%5Cn%5Cn%3E%20Good%20to%20see%20adoption%20growing.%20The%20Code%20works%20best%20when%20providers%20can%20actually%20show%20residents%20their%20costs%20and%20options%20in%20one%20place.%22%7D%7D%2C%7B%22type%22%3A%22actions%22%2C%22elements%22%3A%5B%7B%22type%22%3A%22button%22%2C%22text%22%3A%7B%22type%22%3A%22plain_text%22%2C%22text%22%3A%22%5Cu2705%20Commented%22%2C%22emoji%22%3Atrue%7D%2C%22action_id%22%3A%22comment_posted%22%2C%22value%22%3A%22cmt_e4fe353d38%22%2C%22style%22%3A%22primary%22%7D%2C%7B%22type%22%3A%22button%22%2C%22text%22%3A%7B%22type%22%3A%22plain_text%22%2C%22text%22%3A%22Skip%22%2C%22emoji%22%3Atrue%7D%2C%22action_id%22%3A%22comment_skip%22%2C%22value%22%3A%22cmt_e4fe353d38%22%7D%5D%7D%5D%7D) · `7_floris_comment_list.json`
+- [metrics request](https://app.slack.com/block-kit-builder/#%7B%22blocks%22%3A%5B%7B%22type%22%3A%22section%22%2C%22text%22%3A%7B%22type%22%3A%22mrkdwn%22%2C%22text%22%3A%22%2ANumbers%20to%20log%2A%20%281%29%5CnOpen%20each%20post%2C%20then%20tap%20the%20button%20and%20type%20what%20you%20see.%20~30%20seconds%20each.%22%7D%7D%2C%7B%22type%22%3A%22section%22%2C%22text%22%3A%7B%22type%22%3A%22mrkdwn%22%2C%22text%22%3A%22%2A24h%2A%20%5Cu00b7%20%3Chttps%3A//www.linkedin.com/in/floris-ten-nijenhuis/recent-activity/%7CAny%20board%20game%20fans%20out%20here%3F%20%28EXAMPLE%20of%20a%20published%20row%29%3E%22%7D%7D%2C%7B%22type%22%3A%22actions%22%2C%22elements%22%3A%5B%7B%22type%22%3A%22button%22%2C%22text%22%3A%7B%22type%22%3A%22plain_text%22%2C%22text%22%3A%22Log%2024h%20numbers%22%2C%22emoji%22%3Atrue%7D%2C%22action_id%22%3A%22metrics_log%22%2C%22value%22%3A%22post_fd9e78f3d3%7C24h%22%2C%22style%22%3A%22primary%22%7D%5D%7D%5D%7D) · `8_metrics_request.json`

diff --git a/drafts/2026-10-28_income-caps.md b/drafts/2026-10-28_income-caps.md
@@ -14,41 +14,33 @@ needs: Floris's view; one Stairpay data point (optional)
 - Outside London via the Homes England Capital Funding Guide; London via the London Plan monitoring report.
 - Source: [Social Housing](https://www.socialhousing.co.uk/news/housing-sector-welcomes-shared-ownership-cap-reform-and-further-funding-for-rough-sleeping-99311), [Inside Housing](https://www.insidehousing.co.uk/news/government-announces-increase-to-shared-ownership-income-caps-99295)
 
-**Voice note:** `voice/floris.md` is provisional. Emoji kept light; Floris to adjust.
+**Voice note:** `voice/floris.md` is provisional. Emoji kept light; Floris to adjust. Rewritten 2026-10-29 to the natural-phrasing standard (no clipped fragment sentences).
+
+**Visual:** `brand/visuals/examples/stat-caps.png` (2160x2700). Alt text: £110k New household income cap in London, up from £90k. Outside London the cap rises from £80k to £90k, the first change since 2016. Source: UK Government written statement, 26 Oct 2026
 
 ---
 
-## Variant A: "the door is wider, now fix the hallway"
+## Variant A: "the door is wider, now fix the hallway" (revised 2026-10-29 for natural phrasing)
 
-Shared ownership income caps are finally going up. First change since 2016 🏠
+The shared ownership income caps are going up for the first time since 2016 🏠
 
-From the new year:
-• Outside London: £80k → £90k
-• London: £90k → £110k
+From the new year, households outside London will be able to earn up to £90k (up from £80k), and in London up to £110k (up from £90k).
 
-Good news. Ten years of wage growth had quietly priced out exactly the people the scheme was built for.
+It's a welcome change, because a decade of wage growth had quietly priced out many of the people the scheme was designed for.
 
-But entry was never the whole problem.
+Getting more people in is only half the job, though. Most shared owners get stuck later on, when they want to buy a bigger share or sell, and run into slow valuations, paper-heavy processes and very little visibility of what it will cost them.
 
-Getting into shared ownership is one step. Moving up (staircasing) or moving on (resales) is where most owners get stuck: slow valuations, paper-heavy processes, little visibility on what it will cost them.
+[OPTIONAL DATA LINE, e.g. "Across the homes on Stairpay, X% of owners have looked at buying more of their home this year." Only with an approved figure.]
 
-[OPTIONAL DATA LINE, e.g. "Across the homes on Stairpay, X% of owners have explored buying more of their home this year." Only with an approved figure.]
-
-If we want more people to come in at the bottom, the route up has to work too.
-
-What would you fix first?
+If we're widening the front door, the route through the rest of the house has to work too. What would you fix first?
 
 ---
 
-## Variant B: "short and direct"
+## Variant B: short and direct (revised 2026-10-29)
 
-After 10 years frozen, the shared ownership income caps are rising: £90k outside London, £110k in London, from the new year.
+After ten years frozen, the shared ownership income caps are rising to £90k outside London and £110k in London from the new year, and it's the right call.
 
-It's the right call. But a bigger front door doesn't help much if people can't move through the house.
-
-The next test for the sector is staircasing and resales: making it simple, quick and predictable for owners to buy more or sell.
-
-That's the part we work on every day at Stairpay.
+The harder test for the sector is what happens after people move in: making it simple, quick and predictable for owners to buy more of their home or to sell it. That's the part we work on every day at Stairpay.
 
 ---
 

diff --git a/mockups/board-sample.md b/mockups/board-sample.md
@@ -1,6 +1,6 @@
 # Ideas board · review for 2026-W45
 
-_Generated 2026-10-28 23:19. Source of truth is the bot's log; this is a snapshot._
+_Generated 2026-10-29 12:00. Source of truth is the bot's log; this is a snapshot._
 
 ## New (4)
 
